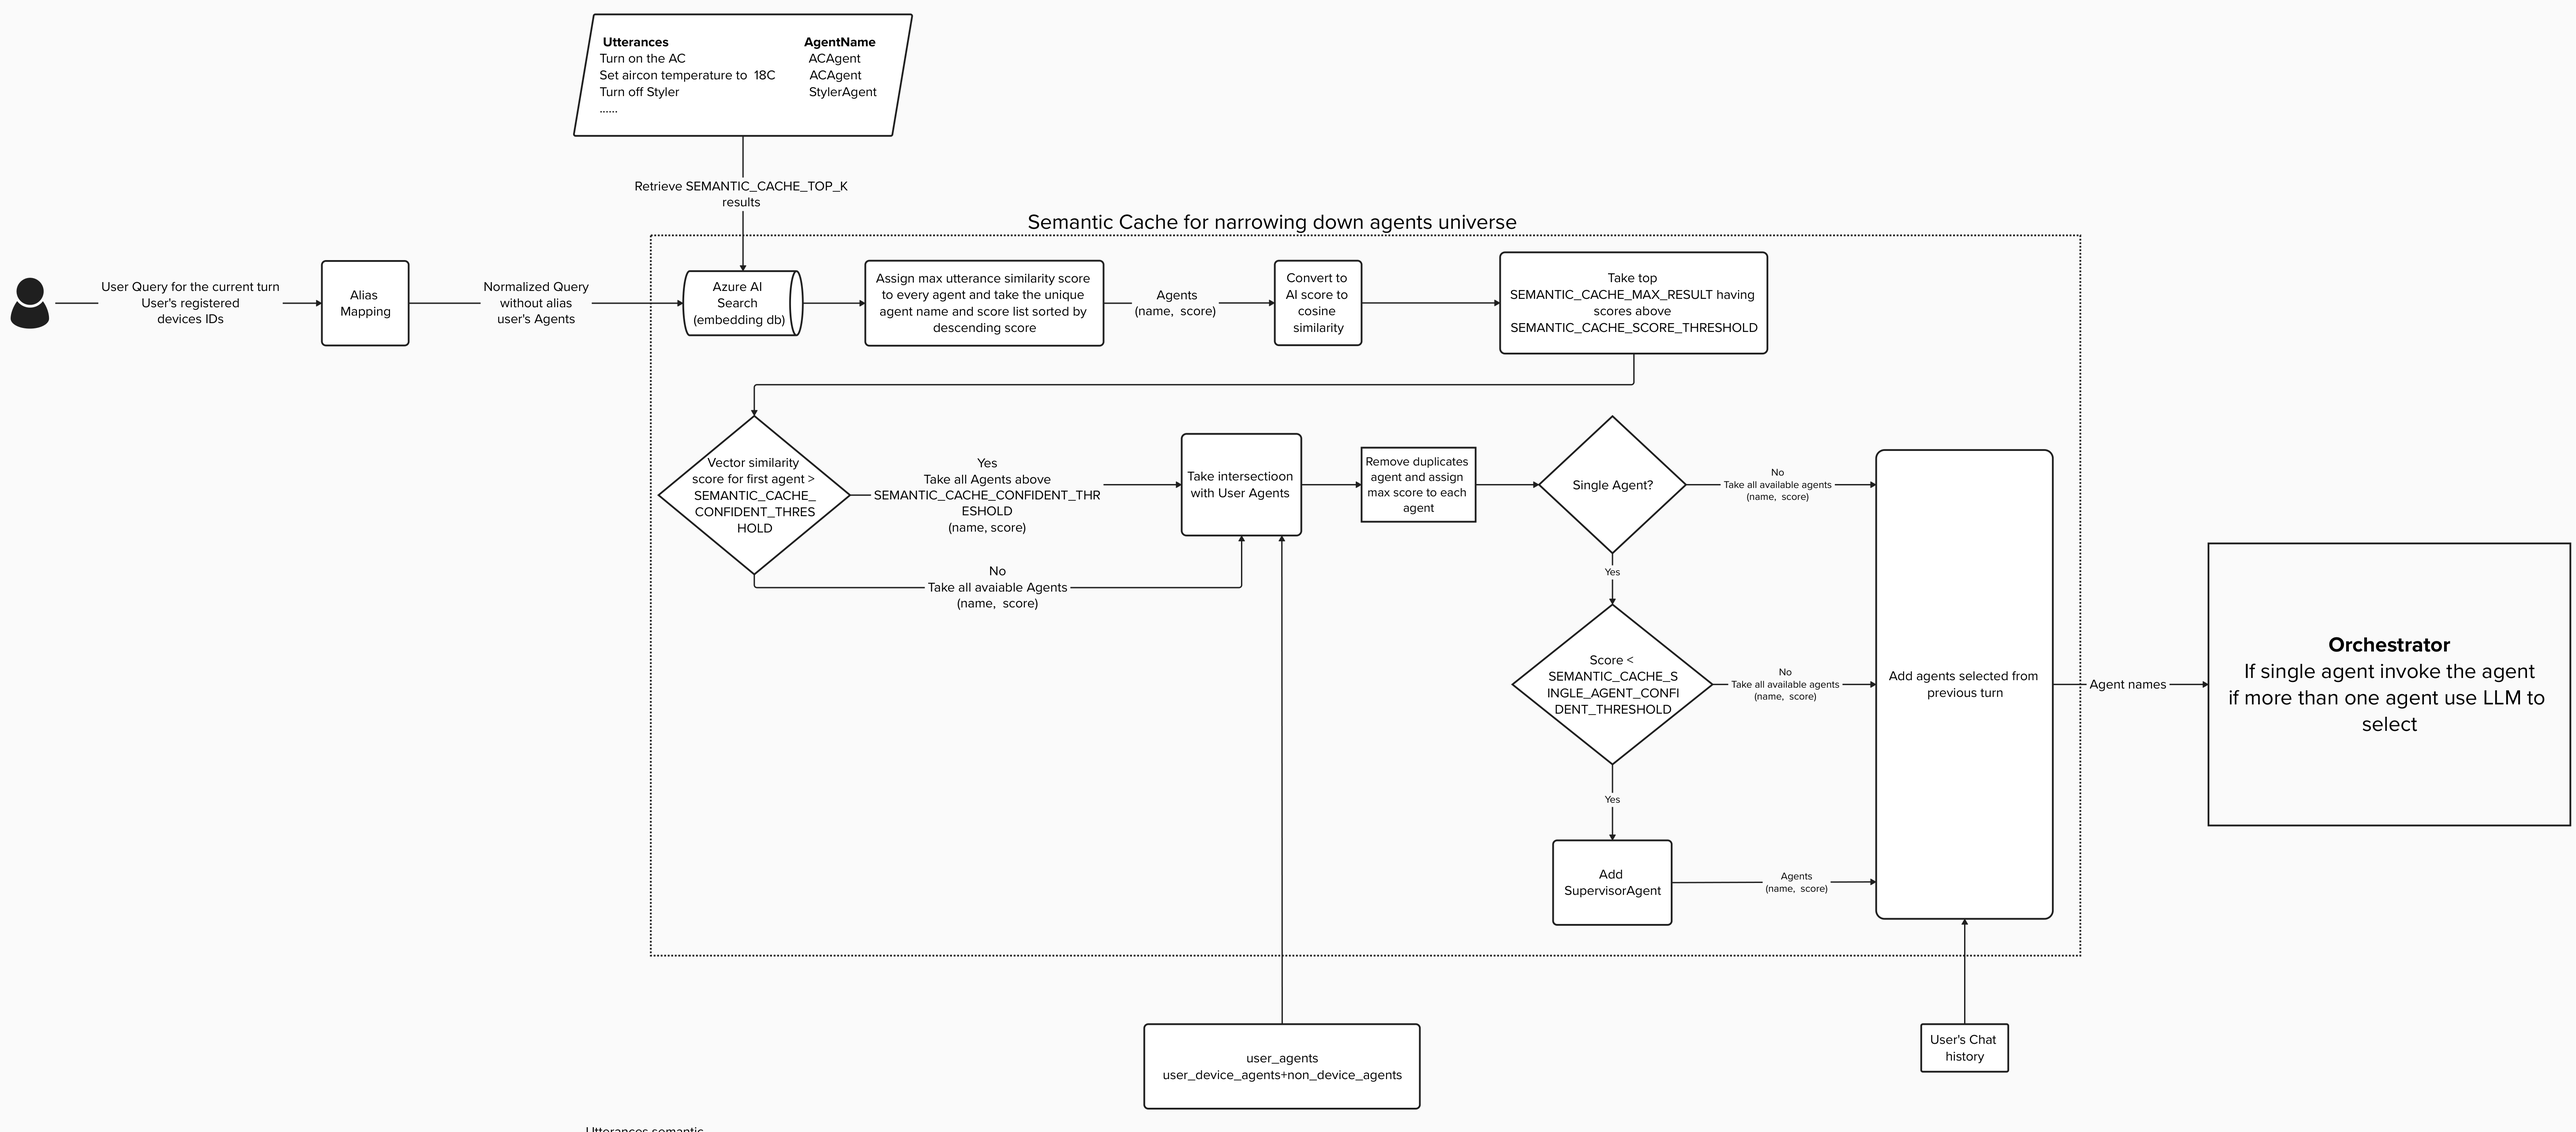
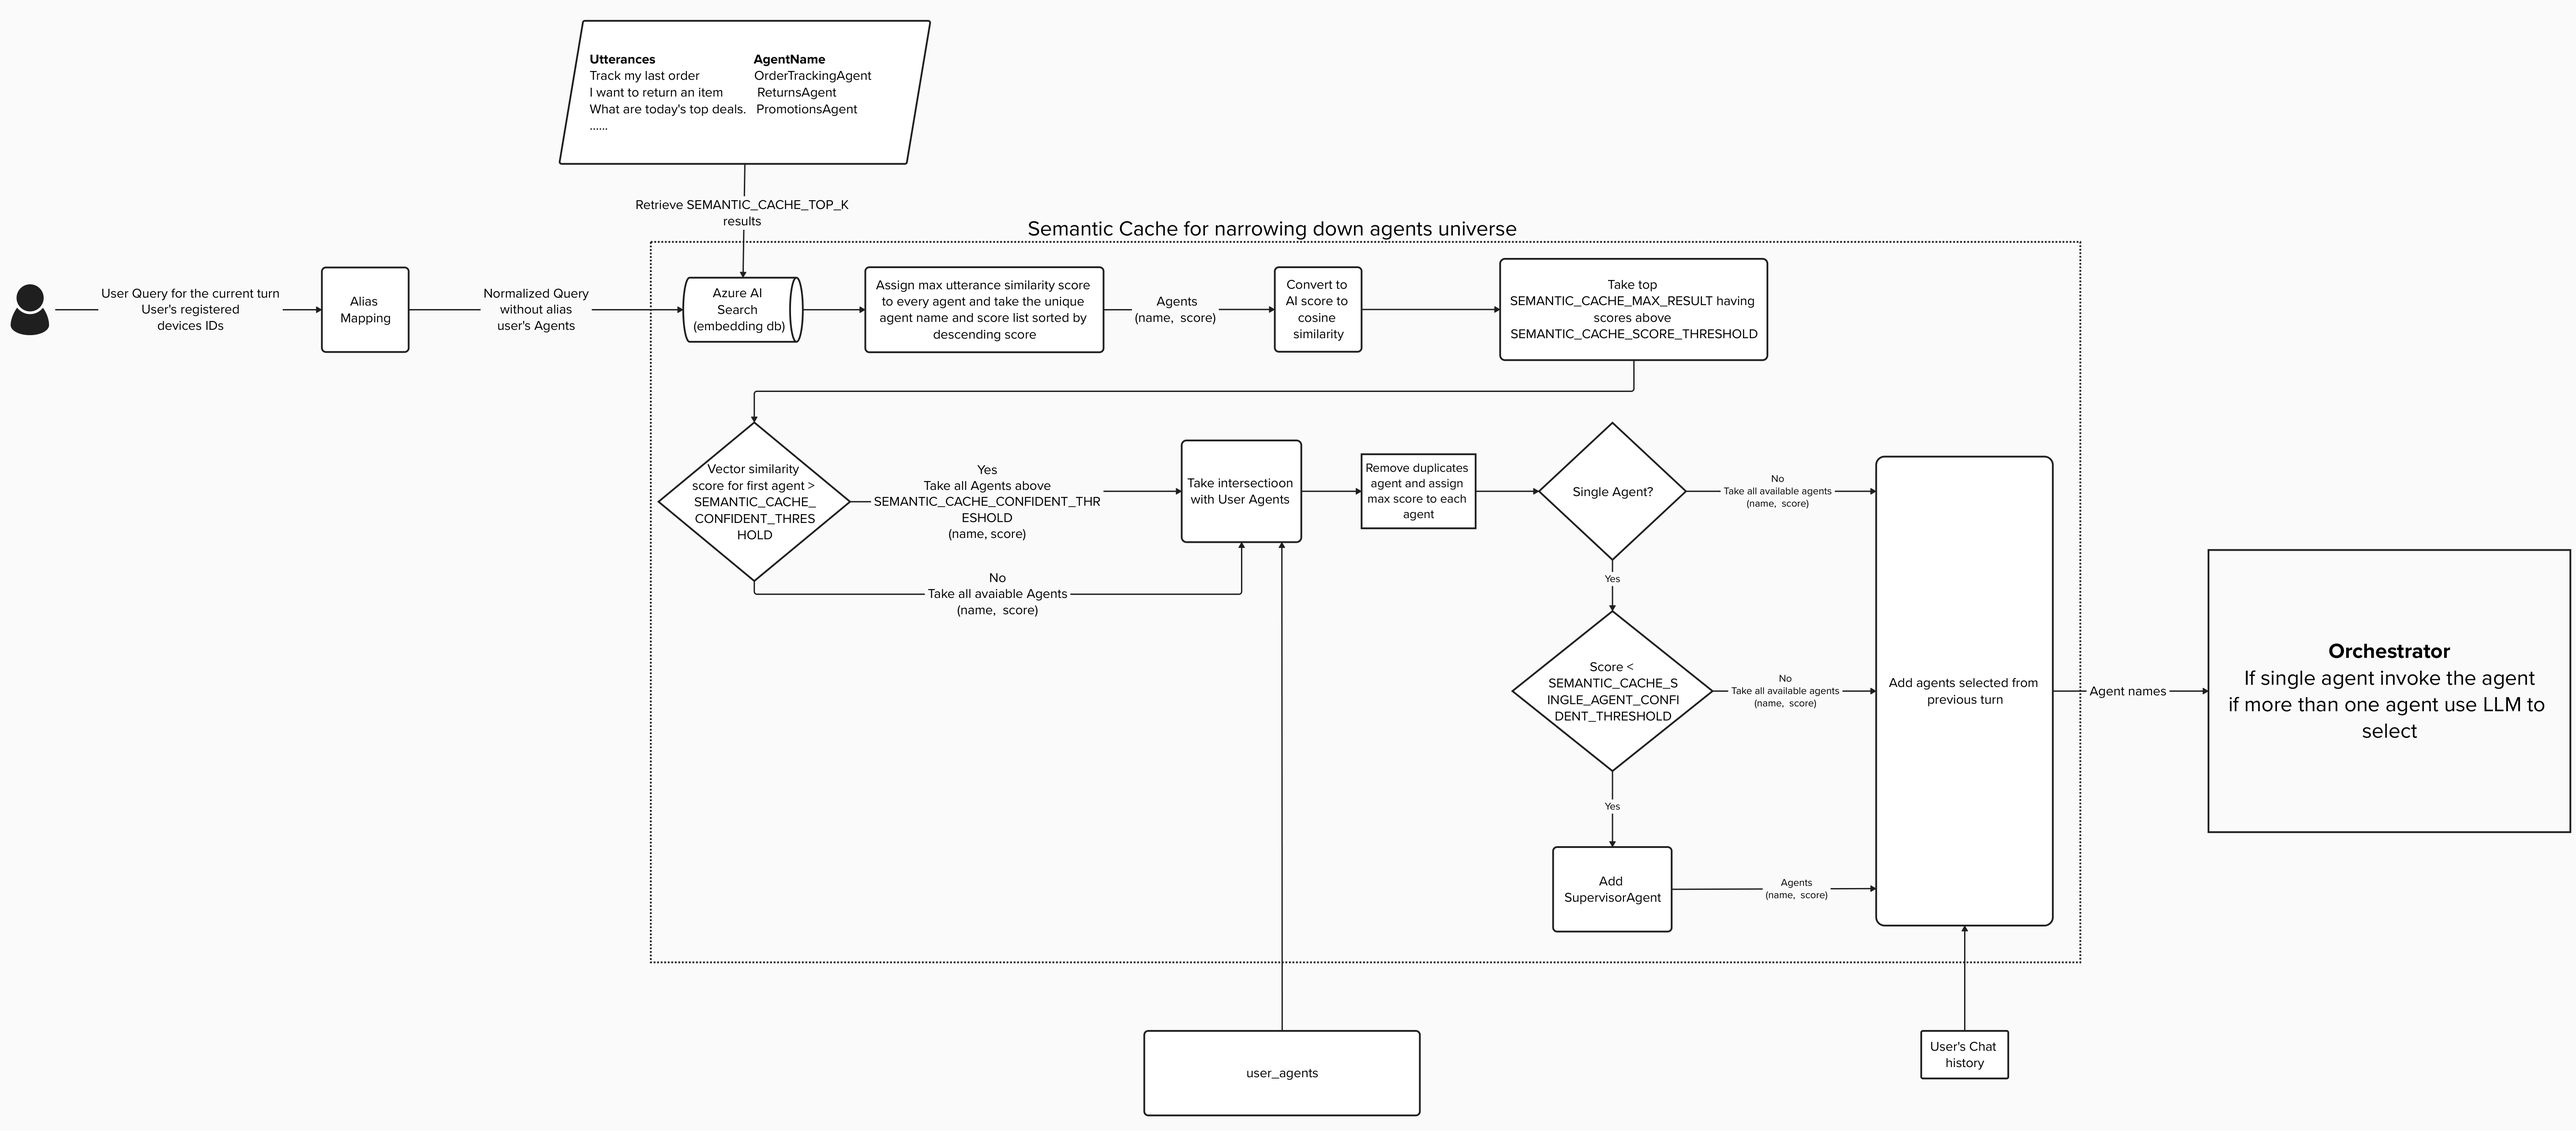
Updated agent selection section

diff --git a/docs/ai-ml/architecture/ai-agents-at-scale.md b/docs/ai-ml/architecture/ai-agents-at-scale.md
@@ -53,12 +53,12 @@ The structure of the Agent Selector system is illustrated in the following diagr
 #### Workflow Summary 
 User Query → Alias Mapping → Semantic Search (Azure AI Search) → Agent Scoring & Filtering → Orchestrator (Select & Invoke Agent) 
 
-1. User submits a query along with registered device IDs.
+1. User submits a query along with registered agent IDs.
 2. Query goes through alias mapping to get a normalized query.
 3. Normalized query is sent to Azure AI Search (semantic cache) to find top matching agent utterances.
 4. Each agent is assigned the highest similarity score based on vector similarity scores of the normalized query with utterances in the semantic cache.
 5. Agents with scores above predefined thresholds are shortlisted.
-6. Candidate agents are intersected with the user’s registered device agents.
+6. Candidate agents are intersected with the user’s registered agents.
 7. Remove duplicate agents by retaining only the highest similarity score for each agent based on matched utterances.
 8. If a single agent remains and its score exceeds the confidence threshold, select that agent. If not, include the SupervisorAgent for further evaluation.
 9. Incorporate agents from the previous conversation turn using chat history.
